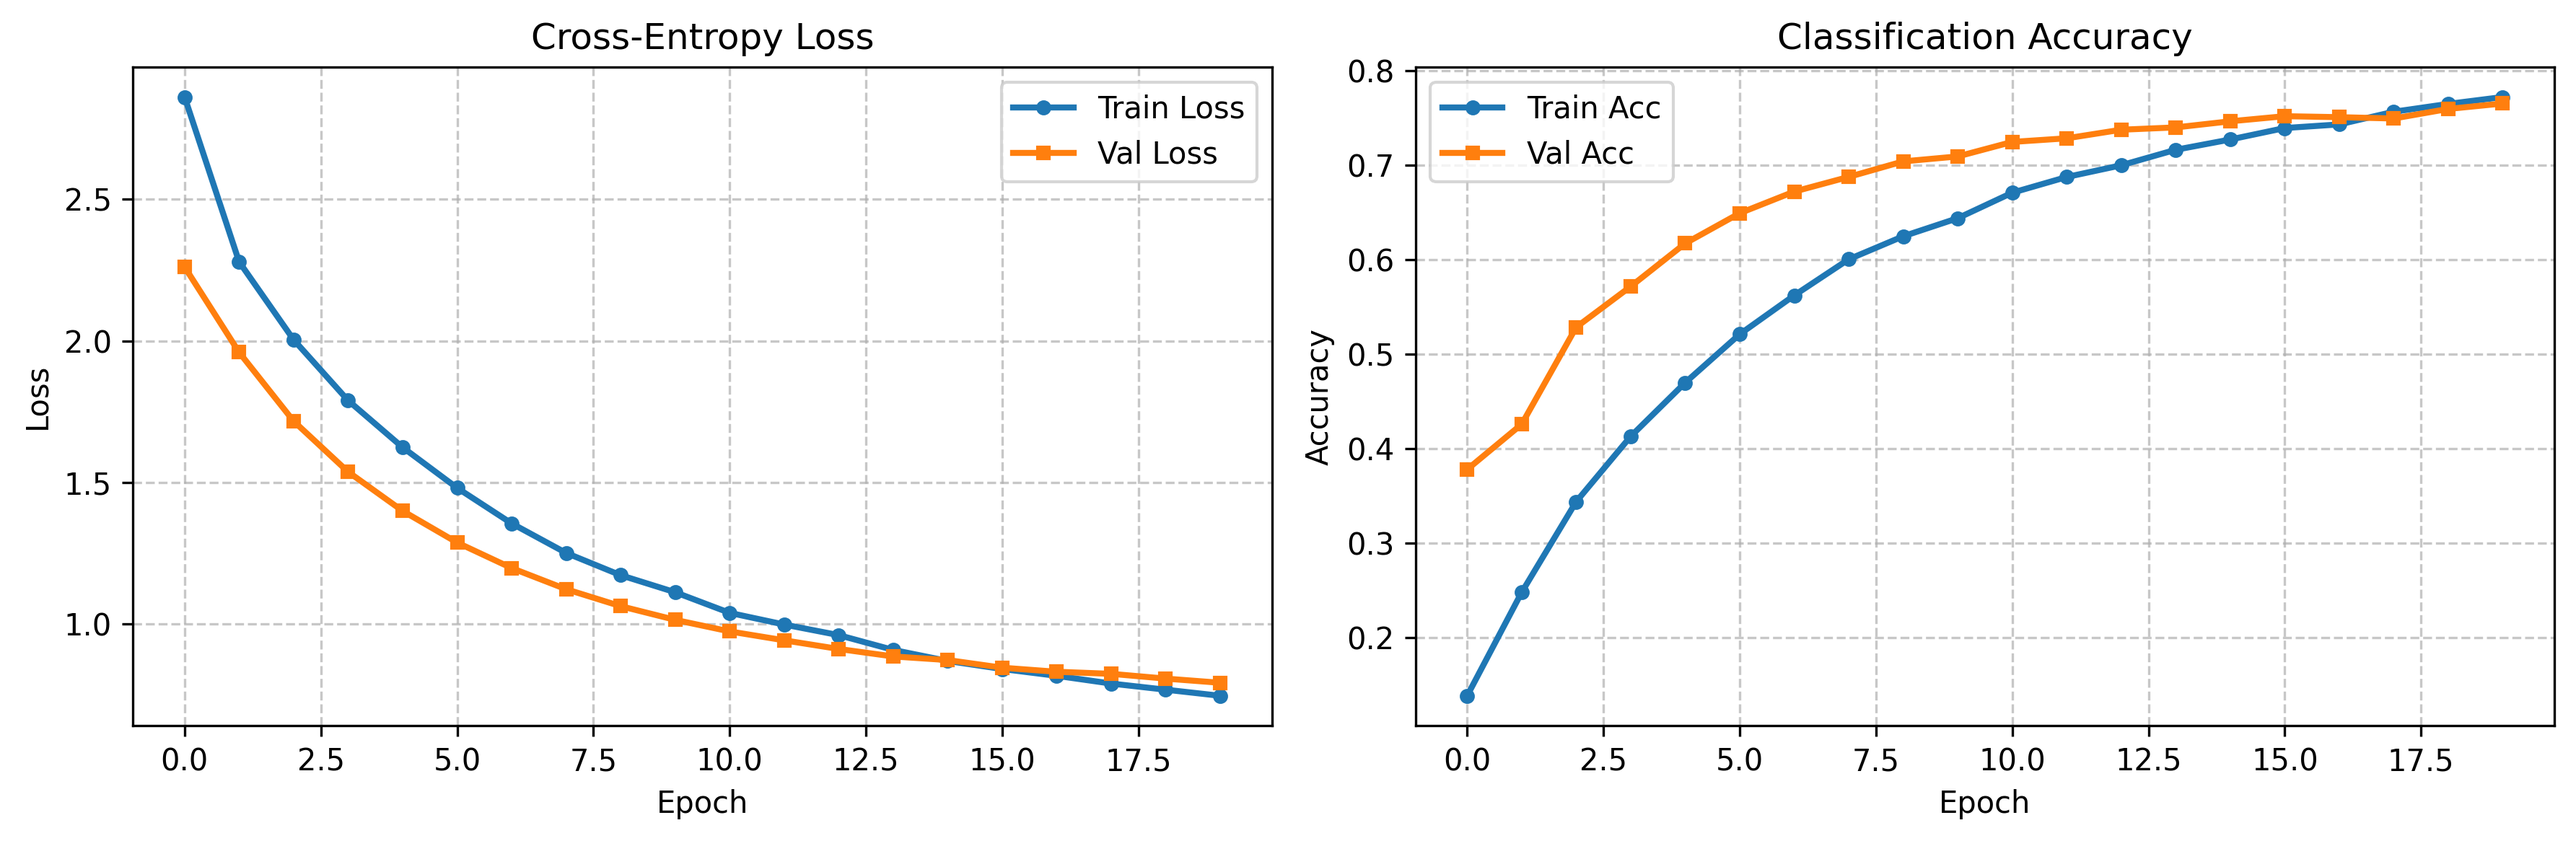
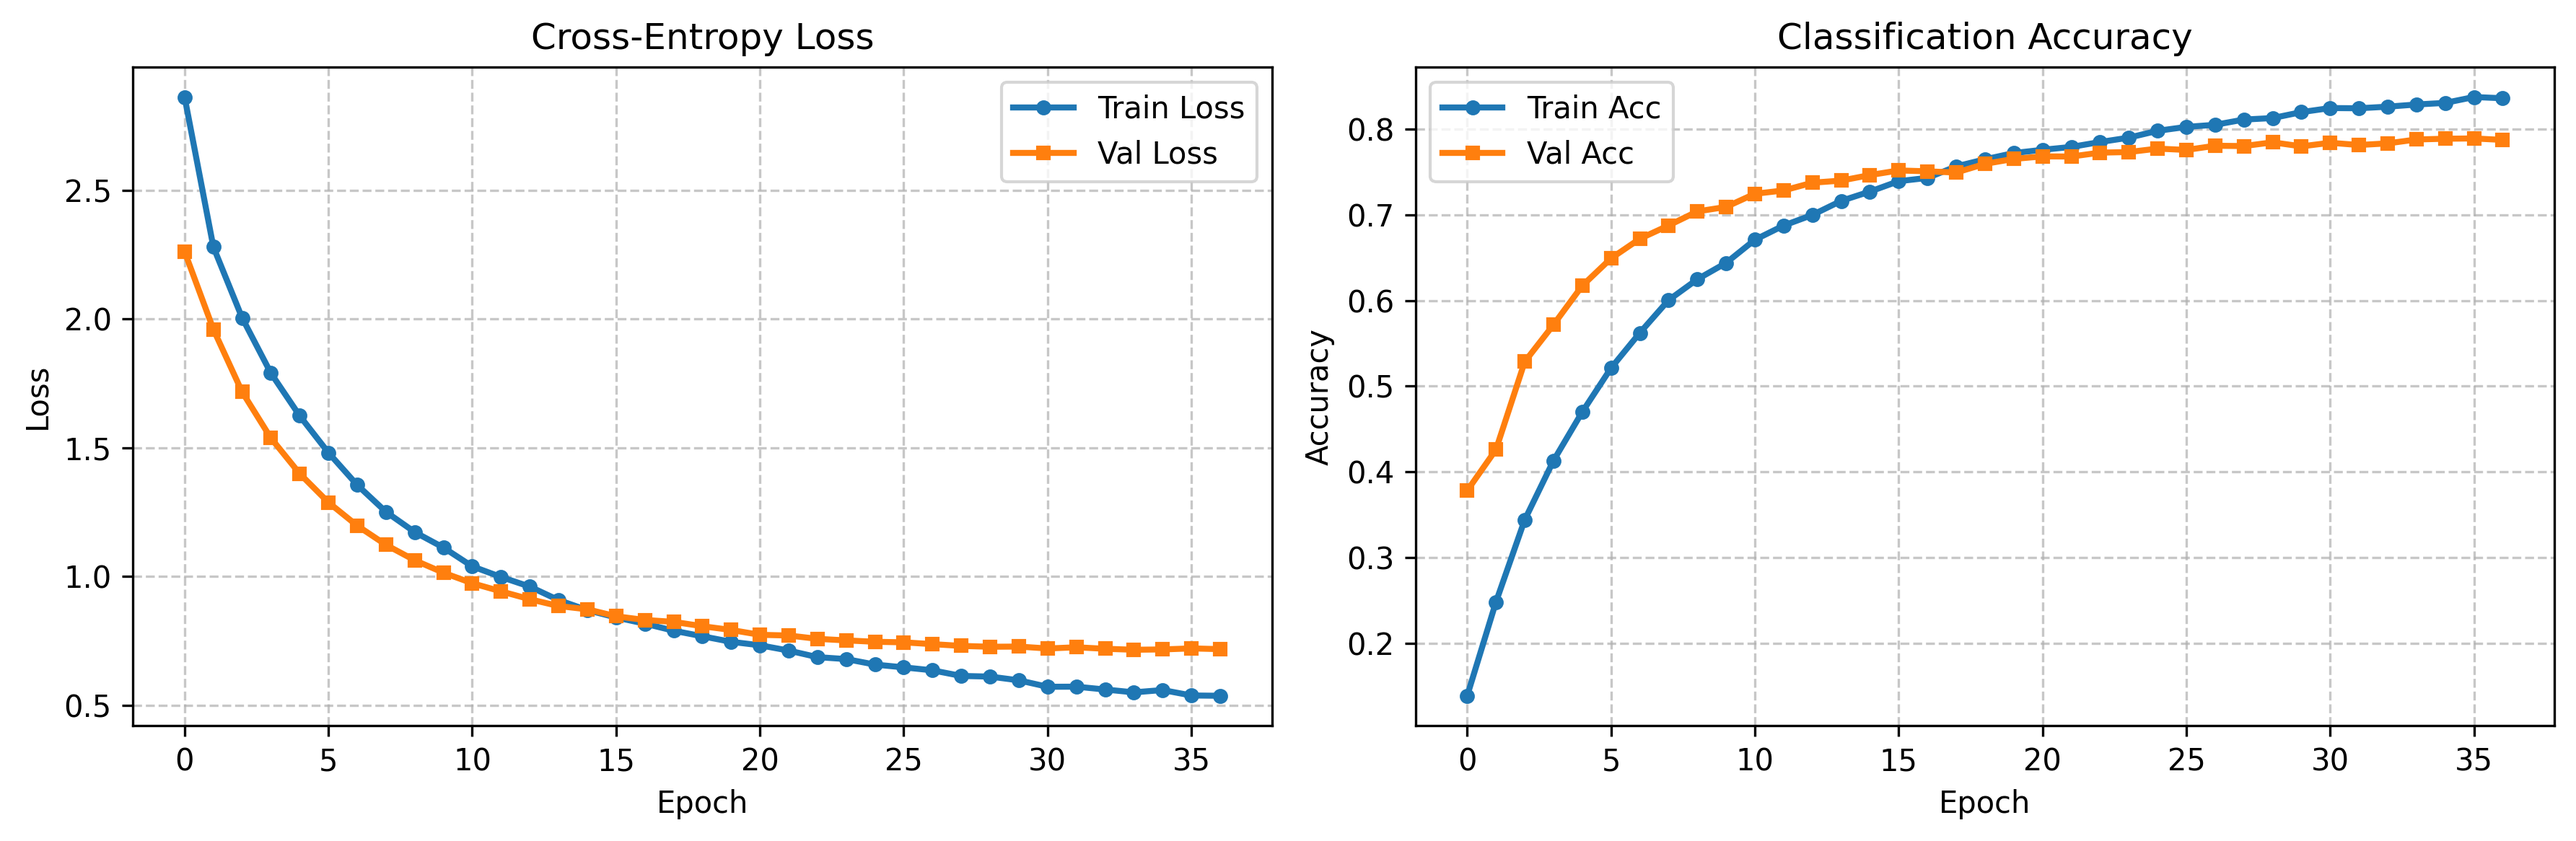
docs: README Analysis of results after training CNN on text data

diff --git a/e_scripts/ek_train_cnn.py b/e_scripts/ek_train_cnn.py
@@ -73,7 +73,7 @@ def main():
     logger.info(f" Optimizer: Adam")
     logger.info(f" Learning Rate: {ba_config.DL_LEARNING_RATE}")
     logger.info(f" Batch Size: {ba_config.DL_BATCH_SIZE}")
-    logger.info(f" Max Epochs: {ba_config.DL_EPOCHS}")
+    logger.info(f" Max Epochs: {ba_config.DL_EPOCHS_CNN}")
     logger.info(f" Patience (Early Stopping): 3")
     logger.info(f"  Filter Sizes: {ba_config.DL_FILTER_SIZES}")
     logger.info(f"  Num Filters: {ba_config.DL_NUM_FILTERS}")
@@ -86,7 +86,7 @@ def main():
         val_loader=val_loader,
         optimizer=optimizer,
         loss_fn=loss_fn,
-        num_epochs=ba_config.DL_EPOCHS,
+        num_epochs=ba_config.DL_EPOCHS_CNN,
         patience=3,
         device=device
     )

diff --git a/b_scr/ba_config.py b/b_scr/ba_config.py
@@ -48,6 +48,7 @@ UNK_IDX = 1
 # Обучение DL моделей
 DL_BATCH_SIZE = 64
 DL_EPOCHS = 20
+DL_EPOCHS_CNN = 80
 DL_LEARNING_RATE = 0.001
 DL_HIDDEN_DIM = 256
 DL_DROPOUT = 0.5

diff --git a/README.md b/README.md
@@ -689,7 +689,7 @@ Checking the first batch:
  - Early stopping triggered at epoch 10.
  - The best weights were from the epoch 7 with Val Loss: 0.9031
 ```
-![Статистика словаря](plots/fcn_training_history.png)
+![Статистика обучения](plots/fcn_training_history.png)
 
 **Final accuracy (FCN)**: 77.62%
 
@@ -721,7 +721,7 @@ Let’s compare this with previous experiments:
 **Conclusion:** A simple FCN architecture with learnable embeddings proved to be a robust solution (`77.62% accuracy`), outperforming heavy pre-trained embeddings (`E5 + LR: 75.72%`) due to better adaptation to the specific sports slang present in the dataset. This proves that for highly specialized domains (like sport), training your own embeddings from scratch often works better than using general-purpose models.
 
 ### Analysis of results after training RNN on text data
-1. **Early stopping worked perfectly:**
+**Early stopping worked perfectly:**
 - The model continued to improve up to **the 17th epoch** (Val Acc: `79.72%`, Val Loss: `0.7624`).
 - There were **no improvements** during epochs 18, 19, and 20.
 - At the 20th epoch, the `patience=3` condition was met, training stopped, and the script automatically reverted the model weights to those from the best epoch - the 17th. **This saved the model from overfitting.**
@@ -749,7 +749,7 @@ Let’s compare this with previous experiments:
  - Early Stopping triggered at epoch 20.
  - The best weights were from the epoch 17 with Val Loss: 0.7624
 ```
-![Статистика словаря](plots/bilstm_training_history.png)
+![Статистика обучения](plots/bilstm_training_history.png)
 
 **Final accuracy (RNN)**: 79.72%
 
@@ -781,6 +781,62 @@ Let’s compare this with previous experiments:
 ```
 
 **Conclusion:** `BiLSTM + Attention` took second place (**79.72%**). The attention mechanism successfully learned to ignore `<PAD>` tokens and focus on key terms. However, the model proved to be more than 100 times slower to train and demonstrated a vulnerability to statistical biases in the data (for example, confidently classifying a text about `Football` as `hockey` (**75.43%**) because the phrase "сборная России" was strongly correlated with hockey in the dataset).
+
+### Analysis of results after training CNN on text data
+
+**Key takeaways from CNN training:**
+1. **Early stopping worked perfectly:** the model showed consistent improvement up to the 34th epoch, after which it began to fluctuate. The script automatically halted training at the 37th epoch and restored the weights from the 34th epoch (Val Acc: **78.83%**, Val Loss: **0.7156**). This is a classic example of how overfitting is prevented.
+2. **CNNs represent the "sweet spot" in deep learning:**
+- They nearly matched the performance of a complex `BiLSTM+Attention model` (**78.95% vs. 79.72%**).
+- Yet, they train **3.5 times faster** (26 minutes vs. 90 minutes).
+- And they contain **one-third the number of parameters** (1.16M vs. 3.32M).
+3. **Why are CNNs superior to FCNs?** Their convolutional filters (kernel sizes of 3, 4, and 5) successfully learned to identify stable phrases - or n-grams - such as "сборная России", "Большой шлем", or "рекордную скорость" while effectively ignoring the order of the remaining words.
+```bash
+2026-11-15 21:20:57,010 - INFO - Запуск обучения
+ - Начало обучения на устройстве: CPU
+ - Epoch 1: New record! Val Loss: 2.2611, Val Acc: 0.3781
+ - Epoch 2: New record! Val Loss: 1.9595, Val Acc: 0.4259
+ - Epoch 3: New record! Val Loss: 1.7164, Val Acc: 0.5287
+ - Epoch 4: New record! Val Loss: 1.5374, Val Acc: 0.5718
+ - Epoch 5: New record! Val Loss: 1.3994, Val Acc: 0.6174
+ - Epoch 6: New record! Val Loss: 1.2876, Val Acc: 0.6494
+ - Epoch 7: New record! Val Loss: 1.1975, Val Acc: 0.6723
+ - Epoch 8: New record! Val Loss: 1.1228, Val Acc: 0.6878
+ - Epoch 9: New record! Val Loss: 1.0629, Val Acc: 0.7042
+ - Epoch 10: New record! Val Loss: 1.0146, Val Acc: 0.7095
+ - Epoch 11: New record! Val Loss: 0.9738, Val Acc: 0.7248
+ - Epoch 12: New record! Val Loss: 0.9423, Val Acc: 0.7287
+ - Epoch 13: New record! Val Loss: 0.9118, Val Acc: 0.7378
+ - Epoch 14: New record! Val Loss: 0.8854, Val Acc: 0.7402
+ - Epoch 15: New record! Val Loss: 0.8726, Val Acc: 0.7467
+ - Epoch 16: New record! Val Loss: 0.8456, Val Acc: 0.7521
+ - Epoch 17: New record! Val Loss: 0.8312, Val Acc: 0.7510
+ - Epoch 18: New record! Val Loss: 0.8239, Val Acc: 0.7497
+ - Epoch 19: New record! Val Loss: 0.8071, Val Acc: 0.7598
+ - Epoch 20: New record! Val Loss: 0.7924, Val Acc: 0.7655
+ - Epoch 21: New record! Val Loss: 0.7736, Val Acc: 0.7685
+ - Epoch 22: New record! Val Loss: 0.7710, Val Acc: 0.7683
+ - Epoch 23: New record! Val Loss: 0.7579, Val Acc: 0.7729
+ - Epoch 24: New record! Val Loss: 0.7519, Val Acc: 0.7736
+ - Epoch 25: New record! Val Loss: 0.7466, Val Acc: 0.7776
+ - Epoch 26: New record! Val Loss: 0.7444, Val Acc: 0.7760
+ - Epoch 27: New record! Val Loss: 0.7373, Val Acc: 0.7809
+ - Epoch 28: New record! Val Loss: 0.7306, Val Acc: 0.7806
+ - Epoch 29: New record! Val Loss: 0.7272, Val Acc: 0.7849
+ - Epoch 30: No improvement (1/3)
+ - Epoch 31: New record! Val Loss: 0.7205, Val Acc: 0.7844
+ - Epoch 32: No improvement (1/3)
+ - Epoch 33: New record! Val Loss: 0.7194, Val Acc: 0.7837
+ - Epoch 34: New record! Val Loss: 0.7156, Val Acc: 0.7883
+ - Epoch 35: No improvement (1/3)
+ - Epoch 36: No improvement (2/3)
+ - Epoch 37: No improvement (3/3)
+ - Early Stopping triggered at epoch 37.
+ - The best weights were from the epoch 34 with Val Loss: 0.7156
+```
+![Статистика обучения](plots/cnn_training_history.png)
+
+**Final accuracy (CNN)**: 78.95%
 
 ## Tech
 - 'Python 3.10+'
